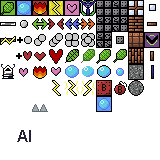
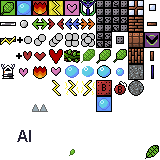
Add "leaf wall" effect when breaking green block

diff --git a/src/DemoScene.ts b/src/DemoScene.ts
@@ -8,6 +8,7 @@ import Power from "./objects/Power";
 import { AUDIO, FONT_KEYS } from "./constants";
 
 import { FireBall, LaserBeam, LightningBolt } from "./objects/Projectiles";
+import { buildWall } from "./objects/LeafWall";
 
 export default class DemoScene extends Phaser.Scene {
   balls = 0;
@@ -43,6 +44,8 @@ export default class DemoScene extends Phaser.Scene {
   blockGroup!: Phaser.Physics.Arcade.Group;
   powerGroup!: Phaser.Physics.Arcade.Group;
   projectileGroup!: Phaser.Physics.Arcade.Group;
+  leafWallGroup!: Phaser.Physics.Arcade.Group;
+  leafWallTimer!: Phaser.Time.TimerEvent;
 
   constructor() {
     super("game");
@@ -89,6 +92,7 @@ export default class DemoScene extends Phaser.Scene {
       { key: AUDIO.METAL, url: "assets/sounds/metal.mp3" },
       { key: AUDIO.METALBREAK, url: "assets/sounds/metalbreak.mp3" },
       { key: AUDIO.ROCK, url: "assets/sounds/rock.mp3" },
+      { key: AUDIO.CREAK, url: "assets/sounds/woodcreak.mp3" },
     ]);
 
     this.load.atlas(
@@ -195,6 +199,9 @@ export default class DemoScene extends Phaser.Scene {
     const projectileGroup = this.physics.add.group();
     this.projectileGroup = projectileGroup;
 
+    const leafWallGroup = this.physics.add.group();
+    this.leafWallGroup = leafWallGroup;
+
     this.physics.add.collider(
       playerGroup,
       projectileGroup,
@@ -281,6 +288,10 @@ export default class DemoScene extends Phaser.Scene {
       }
     });
 
+    this.physics.add.collider(ballGroup, leafWallGroup, () => {
+      this.sound.play(AUDIO.CREAK);
+    });
+
     // We haven't enabled multiple-ball powers yet, but I think I want them to collide with each other
     this.physics.add.collider(ballGroup, ballGroup);
 
@@ -297,6 +308,7 @@ export default class DemoScene extends Phaser.Scene {
         case "green":
           createPuff(myBlock.x, myBlock.y, 35);
           this.sound.play(AUDIO.LEAF);
+          buildWall(this);
           break;
         case "red":
           createPuff(myBlock.x, myBlock.y, 42);

diff --git a/src/objects/LeafWall.ts b/src/objects/LeafWall.ts
@@ -1,0 +1,47 @@
+import DemoScene from "../DemoScene";
+
+class LeafWall extends Phaser.Physics.Arcade.Sprite {
+  constructor(scene: DemoScene, x: number, y: number) {
+    super(scene, x, y, "tiles", 34);
+
+    this.setY((scene.game.config.height as number) - 8);
+
+    scene.physics.add.existing(this);
+    scene.add.existing(this);
+
+    scene.leafWallGroup.add(this);
+
+    this.setImmovable(true);
+
+    this.setSize(16, 13);
+    this.setDepth(100);
+  }
+}
+
+export const buildWall = (scene: DemoScene) => {
+  // This is split awkwardly into two groups, because I wanted to
+  // build it out from each edge. Will come back to this later...
+
+  breakWall(scene);
+  new LeafWall(scene, 8, 50);
+  new LeafWall(scene, 8 + 16, 50);
+  new LeafWall(scene, 8 + 16 * 2, 50);
+  new LeafWall(scene, 8 + 16 * 3, 50);
+  new LeafWall(scene, 8 + 16 * 4, 50);
+
+  const rightEdge = (scene.game.config.width as number) - 8;
+  new LeafWall(scene, rightEdge, 50);
+  new LeafWall(scene, rightEdge - 16, 50);
+  new LeafWall(scene, rightEdge - 16 * 2, 50);
+  new LeafWall(scene, rightEdge - 16 * 3, 50);
+  new LeafWall(scene, rightEdge - 16 * 4, 50);
+
+  if (scene.leafWallTimer) scene.leafWallTimer.remove();
+  scene.leafWallTimer = scene.time.delayedCall(5000, () => {
+    breakWall(scene);
+  });
+};
+
+const breakWall = (scene: DemoScene) => {
+  scene.leafWallGroup.clear(true, true);
+};

diff --git a/src/constants.ts b/src/constants.ts
@@ -12,6 +12,7 @@ export const AUDIO = {
   METAL: "metalSound",
   METALBREAK: "metalBreakSound",
   ROCK: "rockSound",
+  CREAK: "creakSound",
 };
 
 export const FONT_KEYS = {

diff --git a/readme.md b/readme.md
@@ -56,7 +56,8 @@ A tiny Node CLI (and library) to extrude tiles in tilesets\
 [https://pixabay.com/sound-effects/breaking-glass-88411 (as "glass")](https://pixabay.com/sound-effects/breaking-glass-88411/)\
 [https://pixabay.com/sound-effects/metal-hit-81380 (as "metal")](https://pixabay.com/sound-effects/metal-hit-81380/)\
 [https://pixabay.com/sound-effects/metal-impact-3-83104 (as "metalbreak")](https://pixabay.com/sound-effects/metal-impact-3-83104/)\
-[https://pixabay.com/sound-effects/rock-smash-6304 (cropped as "rock")](https://pixabay.com/sound-effects/rock-smash-6304/)
+[https://pixabay.com/sound-effects/rock-smash-6304 (cropped as "rock")](https://pixabay.com/sound-effects/rock-smash-6304/)\
+[https://pixabay.com/sound-effects/bow-loading-38752 (as "woodcreak")](https://pixabay.com/sound-effects/bow-loading-38752/)
 
 <!-- [https://pixabay.com/sound-effects/2018-08-02-17971 (as "music")](https://pixabay.com/sound-effects/2018-08-02-17971/)\ -->
 
